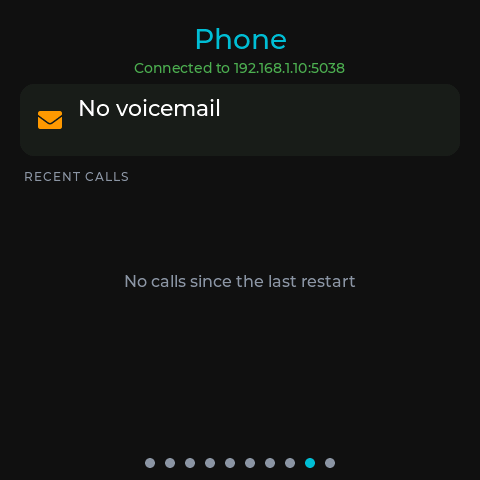
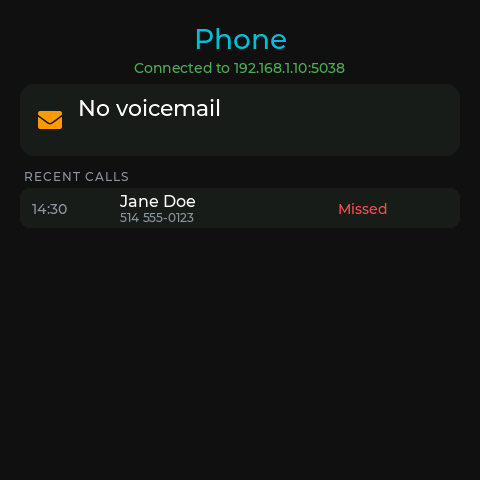
Phone screen: caller name and number on two lines; call view matches Home (v3.21)
- Recent calls: the name on top, the number under it, instead of one
  truncated line
- Big caller ID uses Home's background, no darker band under the date
- README: Big caller ID screenshot, Phone screenshot with a call
  (name, number and AMI address replaced)

diff --git a/README.md b/README.md
@@ -44,7 +44,8 @@ All taken on the device with the built-in [screenshot](#screenshots) feature.
 | <img src="images/screenshots/proxmox.png" width="220" alt="Proxmox"><br>Proxmox | <img src="images/screenshots/stocks.png" width="220" alt="Stocks"><br>Stocks | <img src="images/screenshots/makerworld.png" width="220" alt="MakerWorld"><br>MakerWorld |
 | <img src="images/screenshots/packages.png" width="220" alt="Packages"><br>Packages | <img src="images/screenshots/flight.png" width="220" alt="Flight"><br>Flight | <img src="images/screenshots/home-assistant.png" width="220" alt="Home Assistant"><br>Home Assistant |
 | <img src="images/screenshots/quick-panel.png" width="220" alt="Quick panel"><br>Quick panel | <img src="images/screenshots/night-clock.png" width="220" alt="Night clock"><br>Night clock | <img src="images/screenshots/settings.png" width="220" alt="Settings"><br>Settings |
-| <img src="images/screenshots/home-jellyfin.png" width="220" alt="Home with Jellyfin playing"><br>Home, Jellyfin playing | <img src="images/screenshots/phone.png" width="220" alt="Phone (Asterisk)"><br>Phone (Asterisk) | <img src="images/screenshots/jellyfin.png" width="220" alt="Jellyfin"><br>Jellyfin |
+| <img src="images/screenshots/home-jellyfin.png" width="220" alt="Home with Jellyfin playing"><br>Home, Jellyfin playing | <img src="images/screenshots/call-big.png" width="220" alt="Big caller ID"><br>Big caller ID | <img src="images/screenshots/phone.png" width="220" alt="Phone (Asterisk)"><br>Phone (Asterisk) |
+| <img src="images/screenshots/jellyfin.png" width="220" alt="Jellyfin"><br>Jellyfin | | |
 
 ## Hardware Requirements
 
